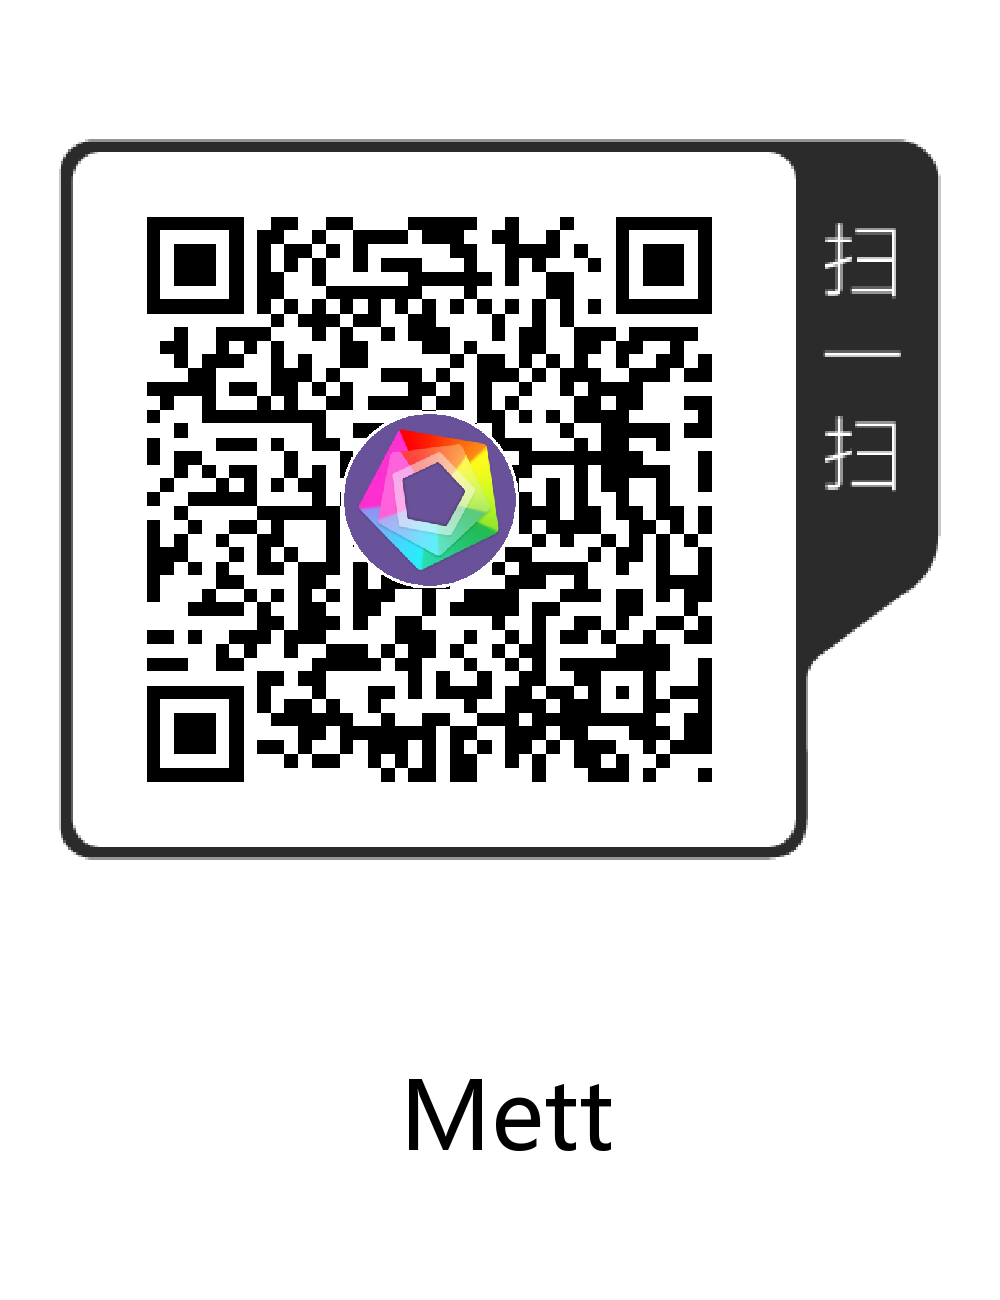
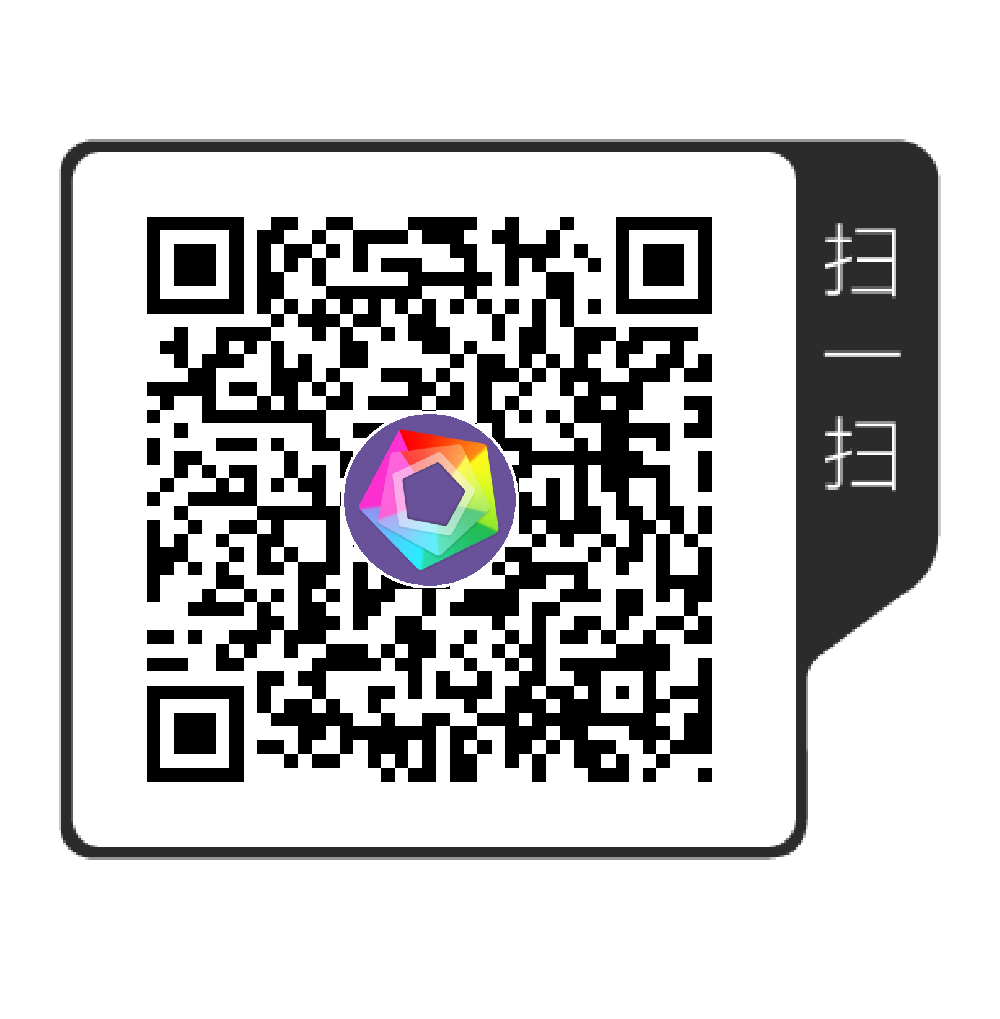
'修改apk'

Changed region(s): [[0.062, 0.0913, 0.961, 0.8822]]

diff --git a/src/pages/home/home.html b/src/pages/home/home.html
@@ -1,6 +1,6 @@
 <ion-content padding class="content">
   <div class="container-top">
-    <p>Mett</p>
+    <p>Ett</p>
     <p style="letter-spacing: 1px">遇见更好的自己</p>
   </div>
   <div class="container">
